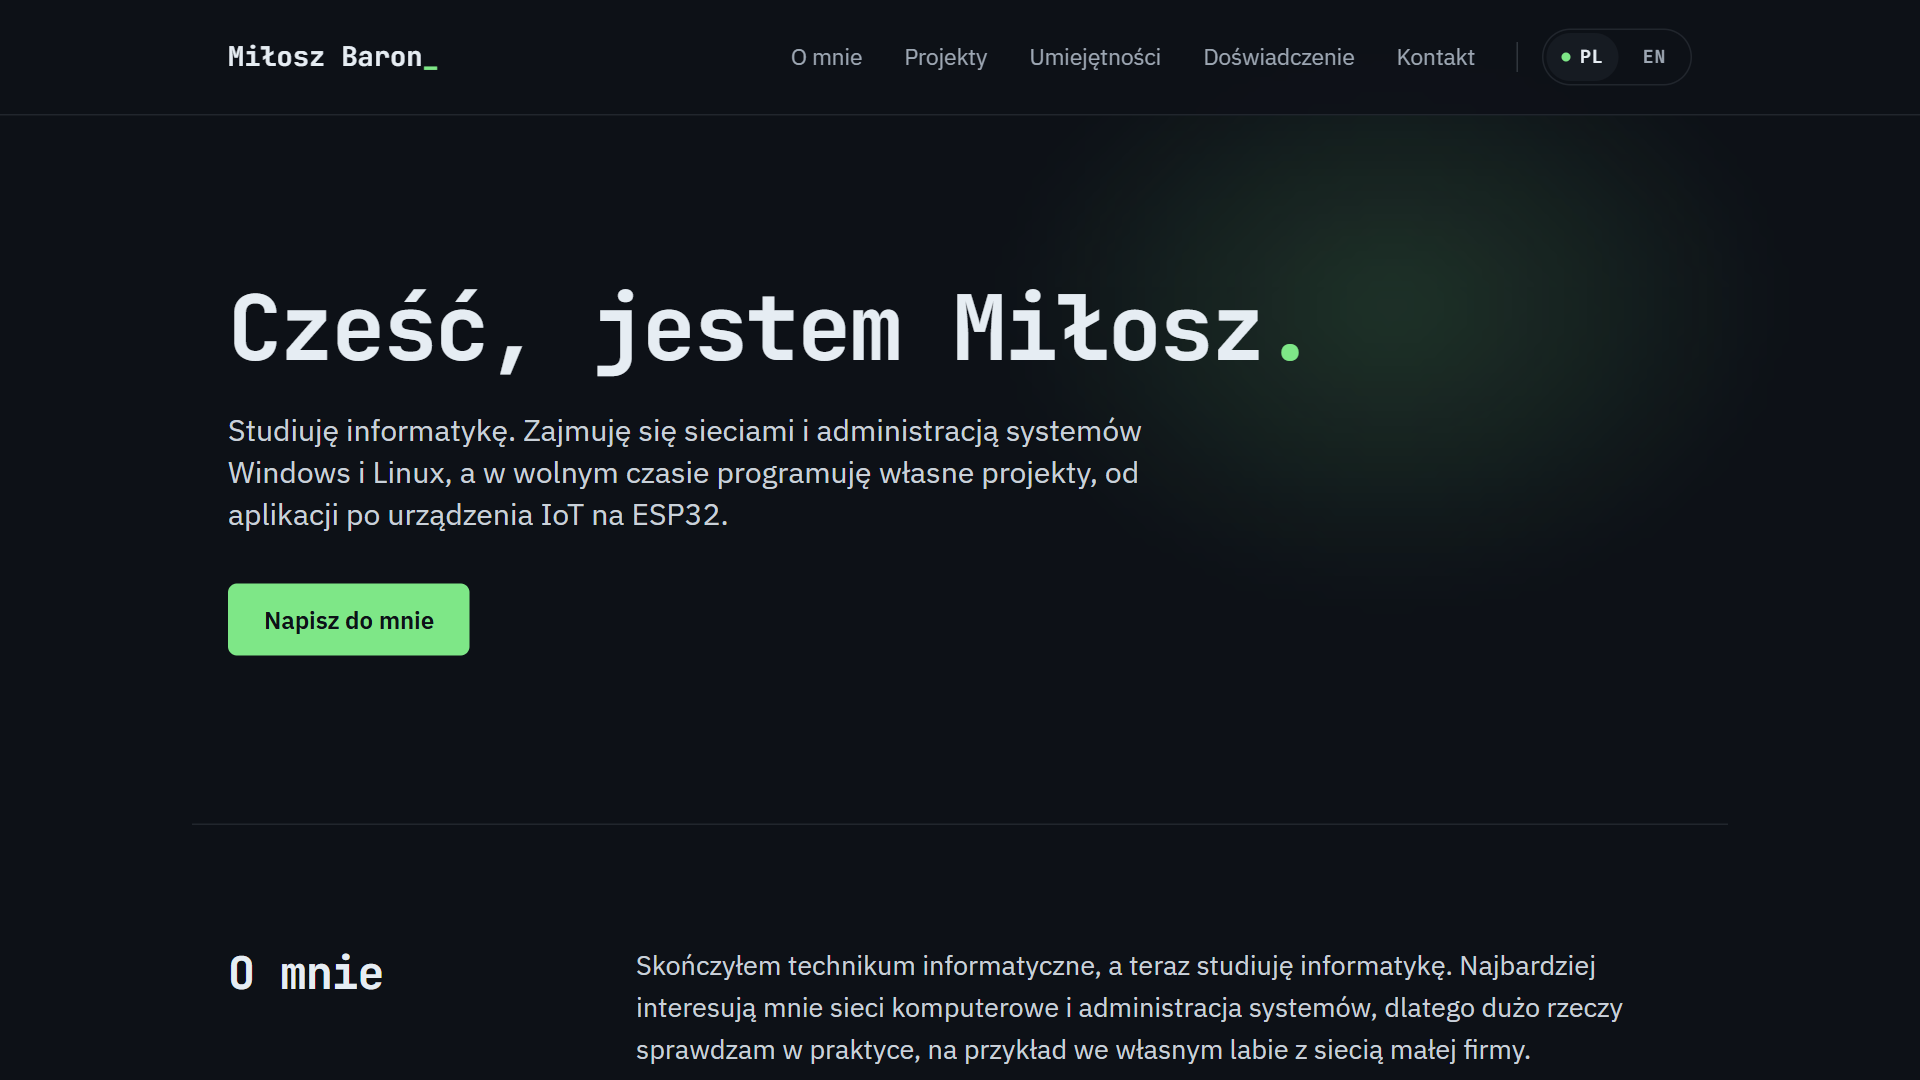
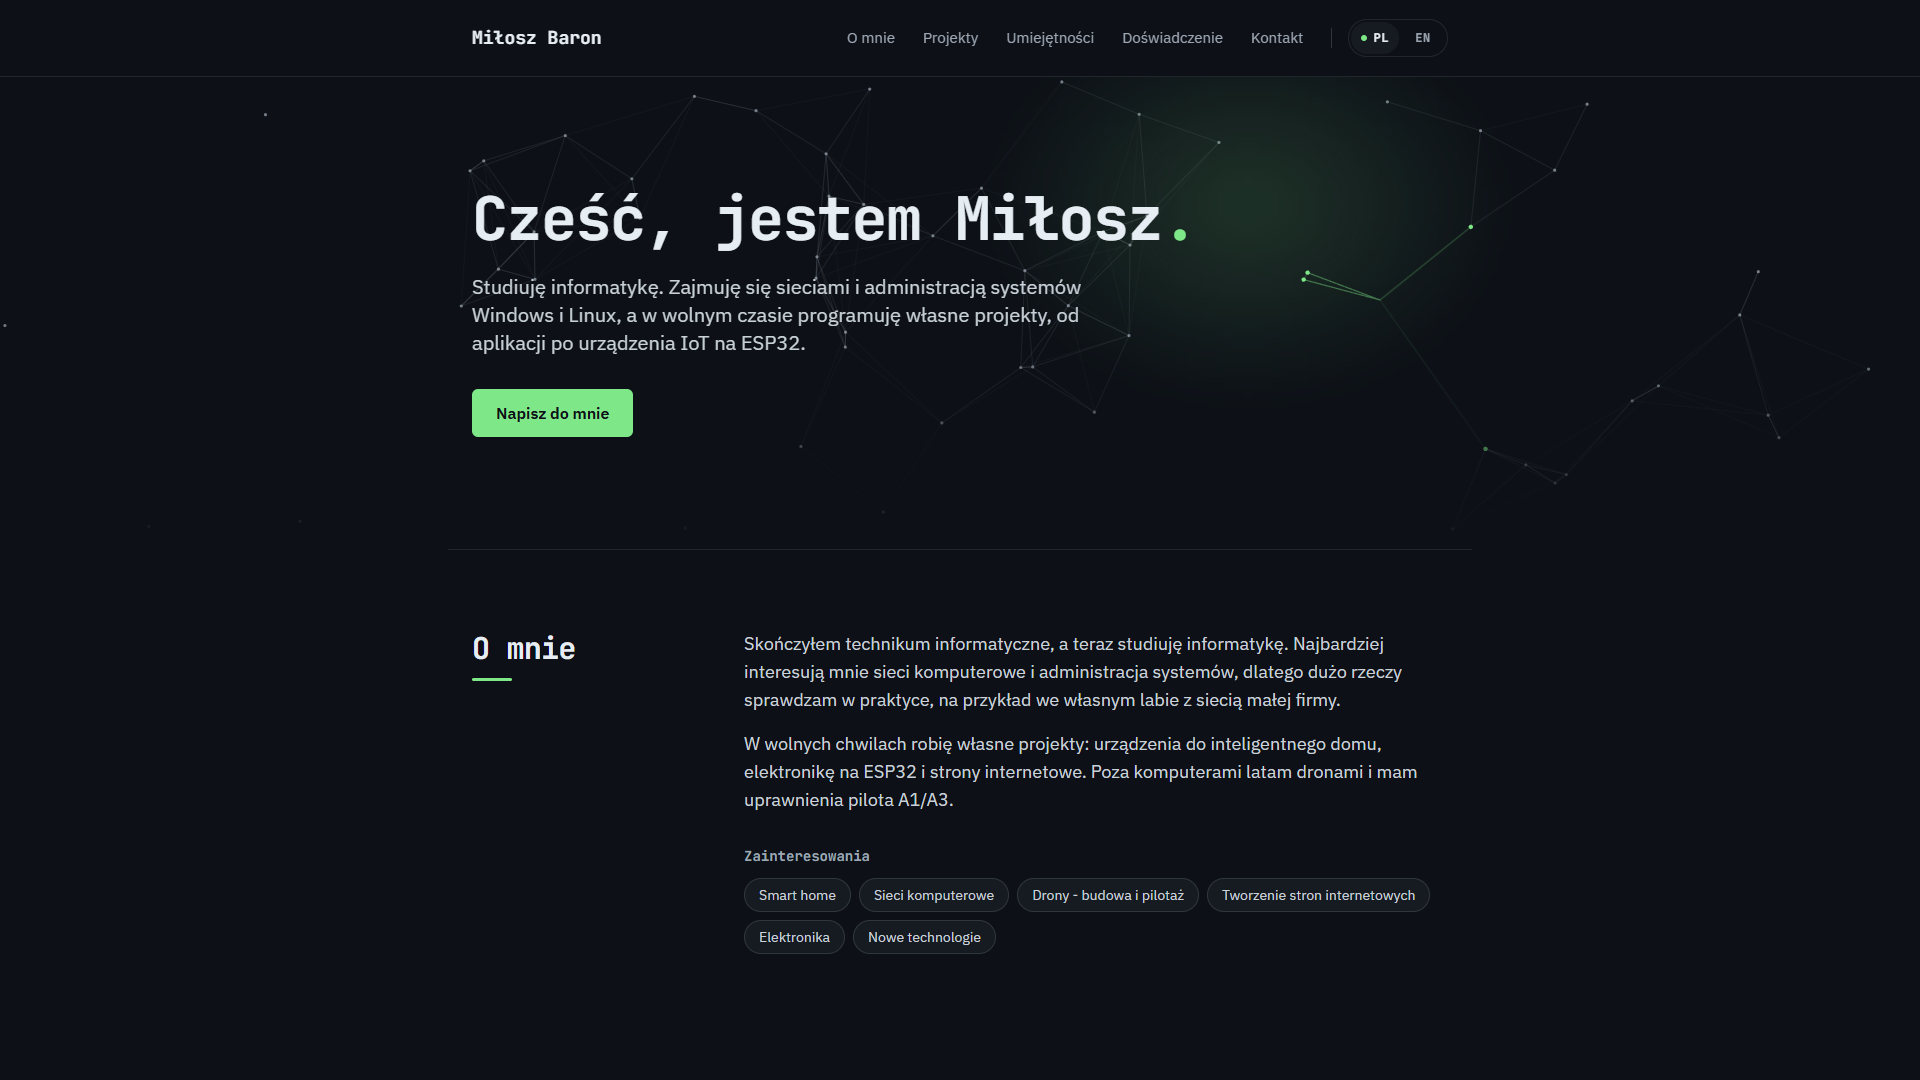
fix: wydruk, ukrycie e-maila, odporność na błędy JS; ci: testy na main

diff --git a/src/styles/global.css b/src/styles/global.css
@@ -492,3 +492,95 @@ main > section[data-reveal] {
   content-visibility: auto;
   contain-intrinsic-size: auto 700px;
 }
+
+/* Wydruk i zapis do PDF: jasne kolory, wszystkie sekcje widoczne, bez elementów ekranowych */
+@media print {
+  :root {
+    color-scheme: light;
+    --color-bg: #fff;
+    --color-surface: #fff;
+    --color-border: #c9ced6;
+    --color-line: #dde1e6;
+    --color-fg: #111;
+    --color-fg-soft: #222;
+    --color-muted: #555;
+    --color-accent: #1a7f37;
+  }
+
+  .js [data-reveal],
+  .js [data-reveal] .reveal-item {
+    opacity: 1 !important;
+    transform: none !important;
+    animation: none !important;
+    transition: none !important;
+  }
+
+  .js [data-reveal] h2::after,
+  .js [data-reveal] .timeline::before,
+  .js [data-reveal] .timeline-item::before {
+    transform: none !important;
+    animation: none !important;
+    transition: none !important;
+  }
+
+  main > section[data-reveal] {
+    content-visibility: visible;
+  }
+
+  [data-scramble].is-scrambling {
+    color: inherit;
+  }
+
+  [data-scramble].is-scrambling::before {
+    content: none;
+  }
+
+  .site-header {
+    position: static;
+    translate: none;
+  }
+
+  #site-header nav > ul,
+  #site-header nav > span,
+  #scroll-progress,
+  .network-canvas,
+  .hero-glow,
+  .back-to-top,
+  .copy-btn,
+  .confetti,
+  [data-mailto][data-magnetic],
+  a[href="#contact"] {
+    display: none !important;
+  }
+
+  .cursor-blink {
+    animation: none;
+  }
+
+  .hero-in {
+    animation: none !important;
+    opacity: 1 !important;
+  }
+
+  .card a[href^="http"] {
+    display: block;
+    min-height: 0;
+    padding: 0;
+    border: 0;
+  }
+
+  .card {
+    break-inside: avoid;
+    transform: none !important;
+    translate: none !important;
+    box-shadow: none !important;
+  }
+
+  /* Na papierze link musi pokazać adres */
+  .card a[href^="http"]::after {
+    content: " (" attr(href) ")";
+    font-size: 0.8em;
+    color: var(--color-muted);
+    overflow-wrap: anywhere;
+  }
+}

diff --git a/src/scripts/effects.ts b/src/scripts/effects.ts
@@ -318,6 +318,15 @@ document.addEventListener("animationend", (e) => {
 const whenIdle = (fn: () => void) =>
   typeof requestIdleCallback === "function" ? requestIdleCallback(fn, { timeout: 1500 }) : setTimeout(fn, 300);
 
+// Błąd w jednym efekcie nie może zatrzymać reszty strony (np. odsłaniania sekcji)
+const safe = (init: () => void) => () => {
+  try {
+    init();
+  } catch (error) {
+    console.error(error);
+  }
+};
+
 // Celowo bez prefers-reduced-motion: animacje działają u wszystkich
-initScramble();
-[initNetwork, initCards, initMagnetic, initConfetti].forEach((init) => whenIdle(init));
+safe(initScramble)();
+[initNetwork, initCards, initMagnetic, initConfetti].forEach((init) => whenIdle(safe(init)));

diff --git a/src/i18n/ui.ts b/src/i18n/ui.ts
@@ -64,6 +64,7 @@ export const ui = {
     "contact.copy": "Kopiuj",
     "contact.copied": "Skopiowano",
     "contact.copyLabel": "Kopiuj adres e-mail",
+    "contact.copyFailed": "Nie udało się skopiować, adres jest zaznaczony",
   },
   en: {
     "meta.title": "Miłosz Baron - Computer Science Student",
@@ -116,6 +117,7 @@ export const ui = {
     "contact.copy": "Copy",
     "contact.copied": "Copied",
     "contact.copyLabel": "Copy email address",
+    "contact.copyFailed": "Couldn't copy, the address is selected",
   },
 } as const satisfies Record<Lang, Record<string, string>>;
 

diff --git a/src/data/site.ts b/src/data/site.ts
@@ -1,6 +1,8 @@
 export const site = {
   name: "Miłosz Baron",
-  email: "MiloszBaron@outlook.com",
+  /** E-mail w częściach, żeby nie znalazły go boty zbierające adresy (na stronie składa go JS) */
+  emailUser: "MiloszBaron",
+  emailDomain: "outlook.com",
   github: "https://github.com/miloszekxk",
   linkedin: "",
 

diff --git a/README.md b/README.md
@@ -23,6 +23,6 @@ Astro, Tailwind CSS, TypeScript. Hosting na GitHub Pages z automatycznym wdroże
 | --- | --- |
 | Teksty sekcji (PL i EN) | `src/i18n/ui.ts` |
 | Projekty, umiejętności, wykształcenie, certyfikaty | `src/data/projects.ts` |
-| E-mail, GitHub, LinkedIn | `src/data/site.ts` |
+| E-mail (w częściach: `emailUser`, `emailDomain`), GitHub, LinkedIn | `src/data/site.ts` |
 
 Przycisk CV pojawia się sam po dodaniu pliku `public/cv.pdf`.
